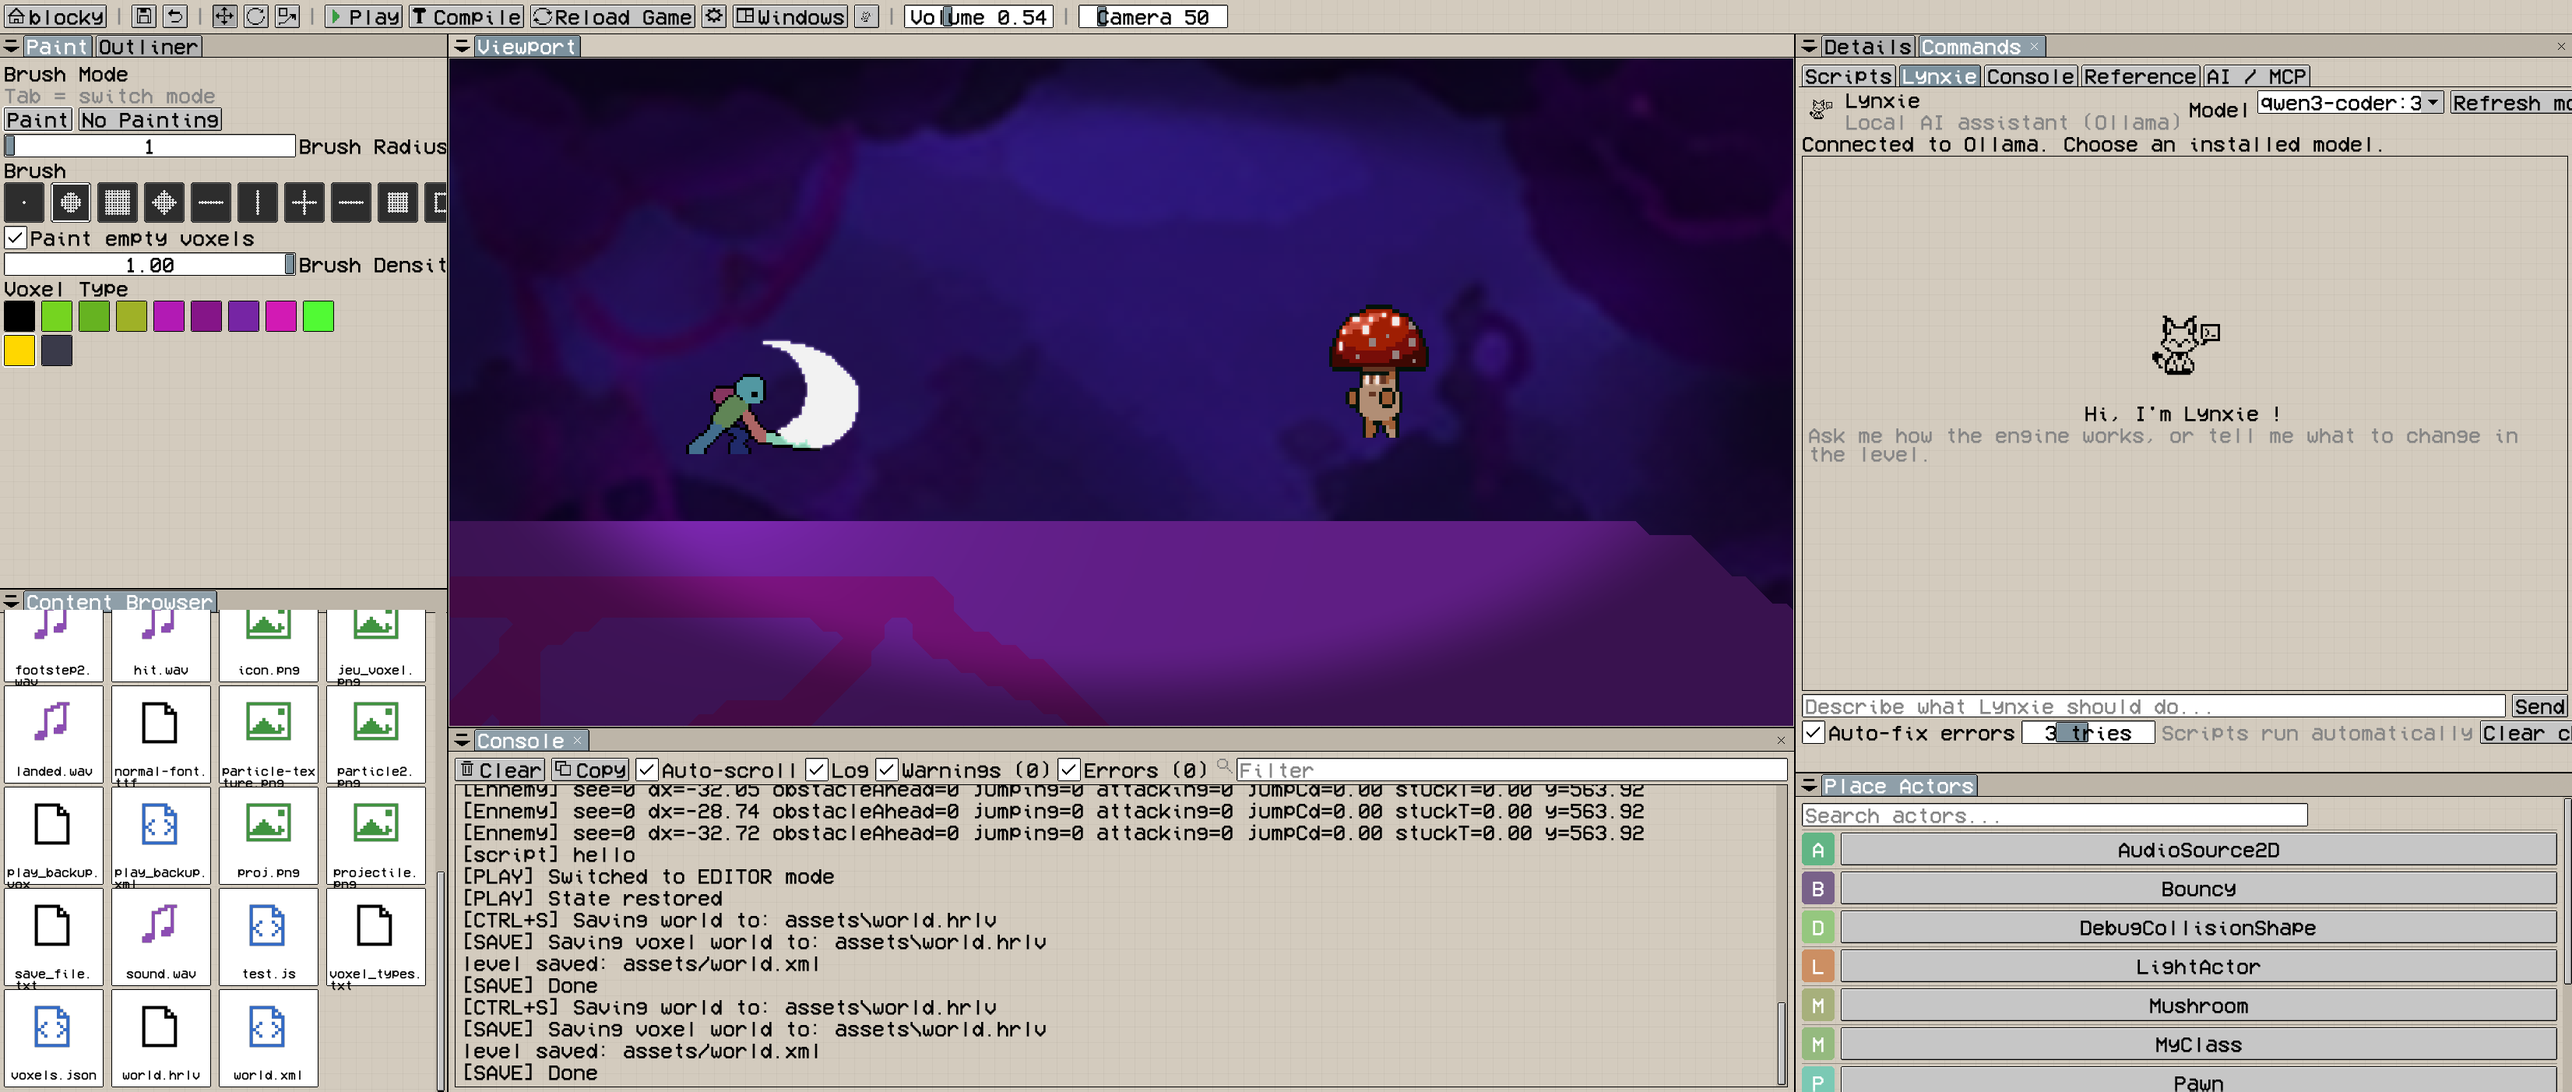
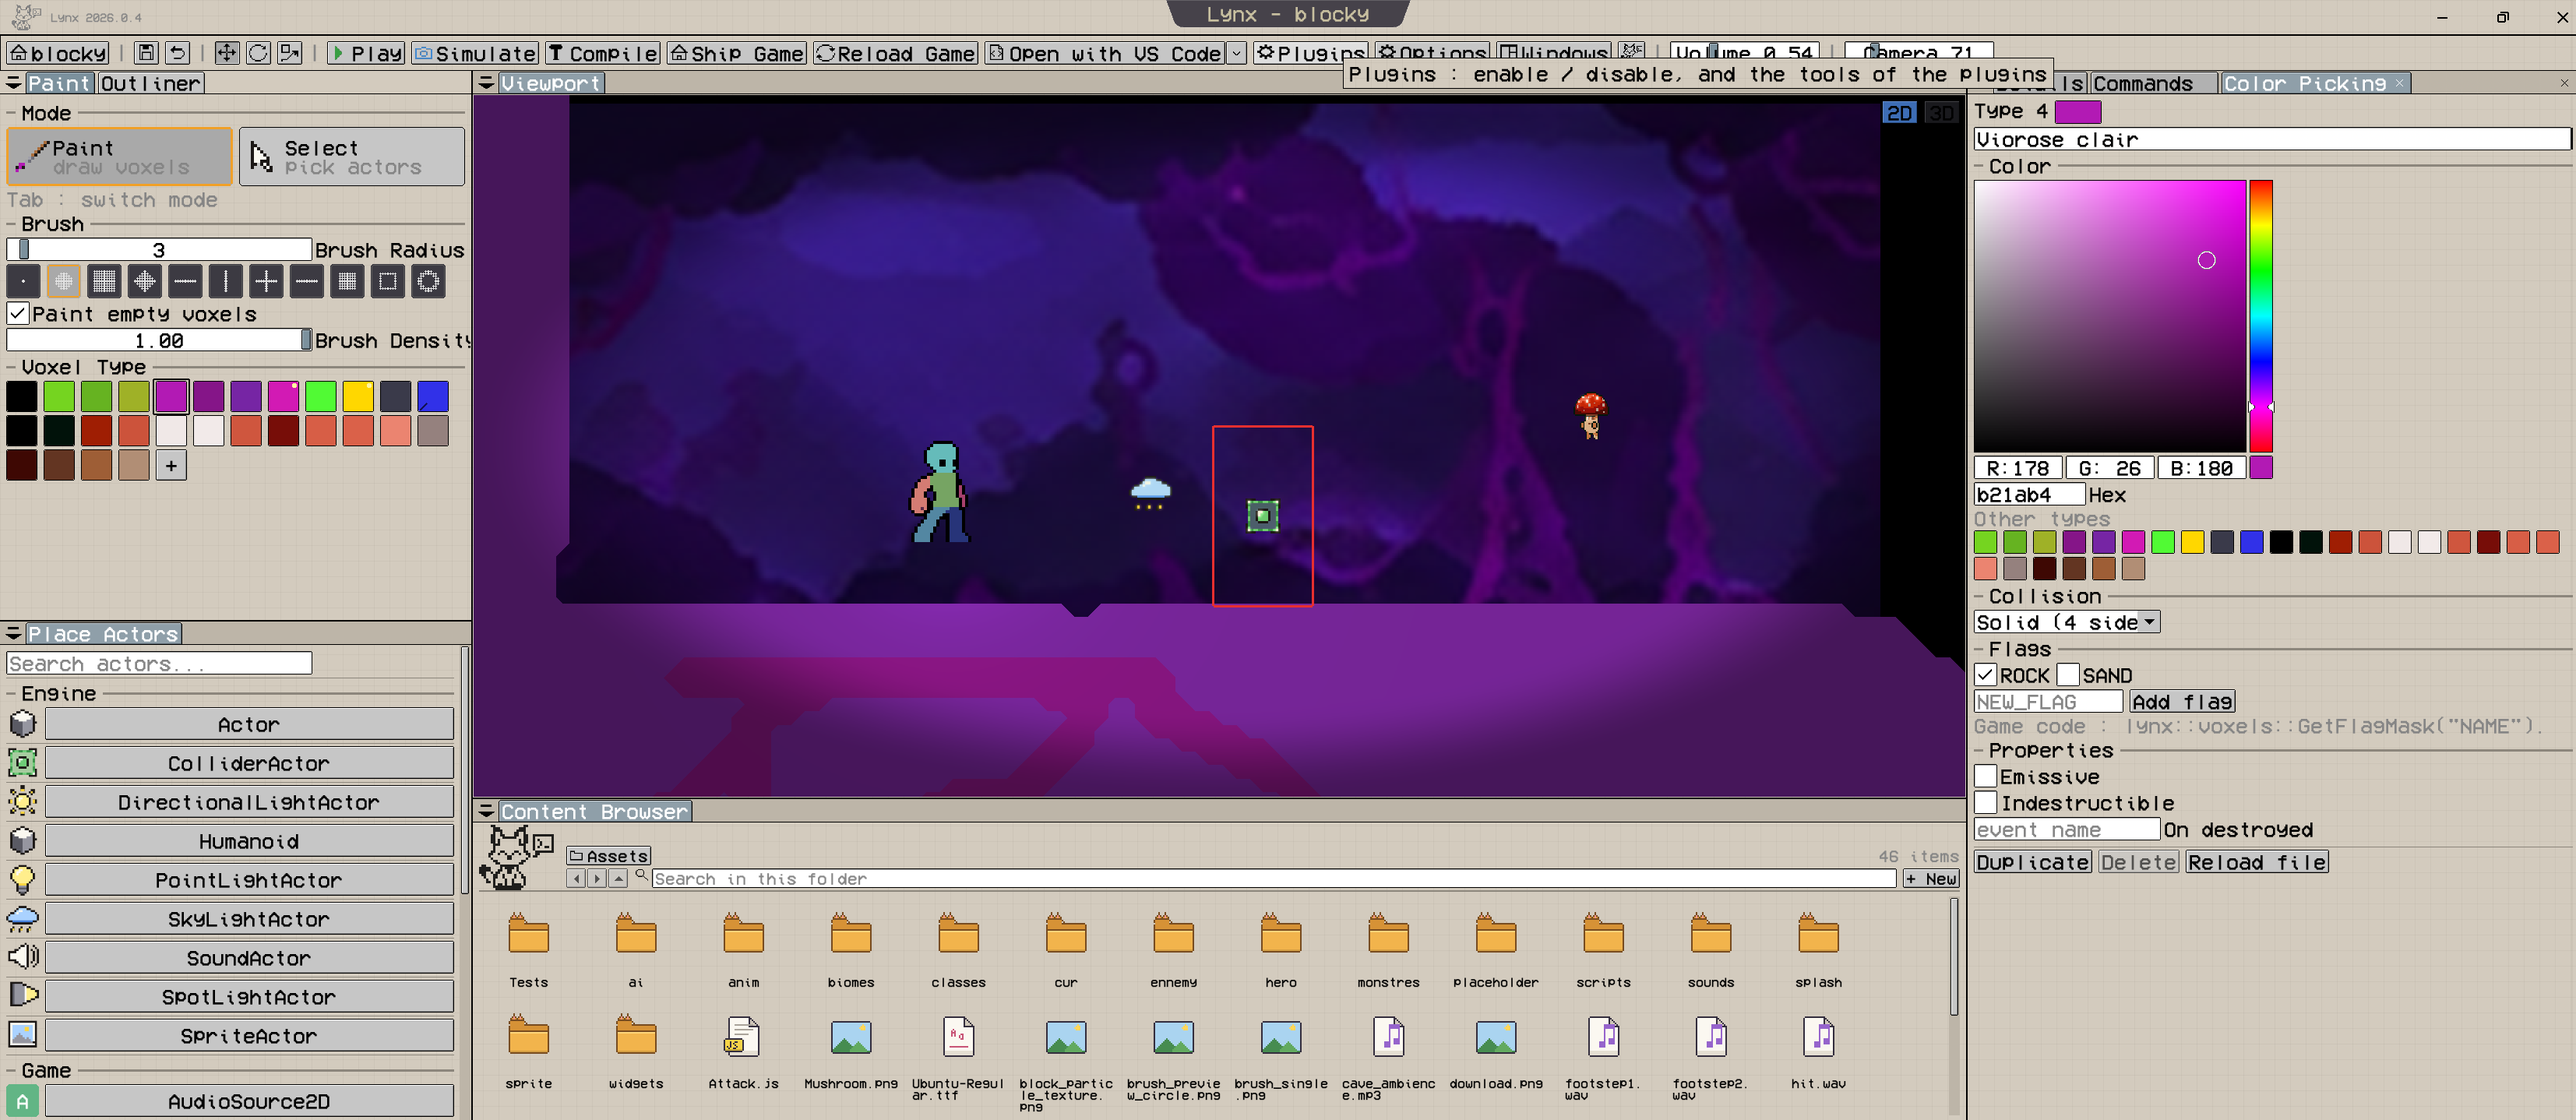
screenshots

diff --git a/src/editor/EditorPluginAPI.h b/src/editor/EditorPluginAPI.h
@@ -27,7 +27,7 @@
 // The engine API (<Lynx.h>) is available as in the runtime module.
 // =============================================================================
 
-#include <imgui.h>
+#include <imgui/imgui.h>
 
 namespace lynx
 {
